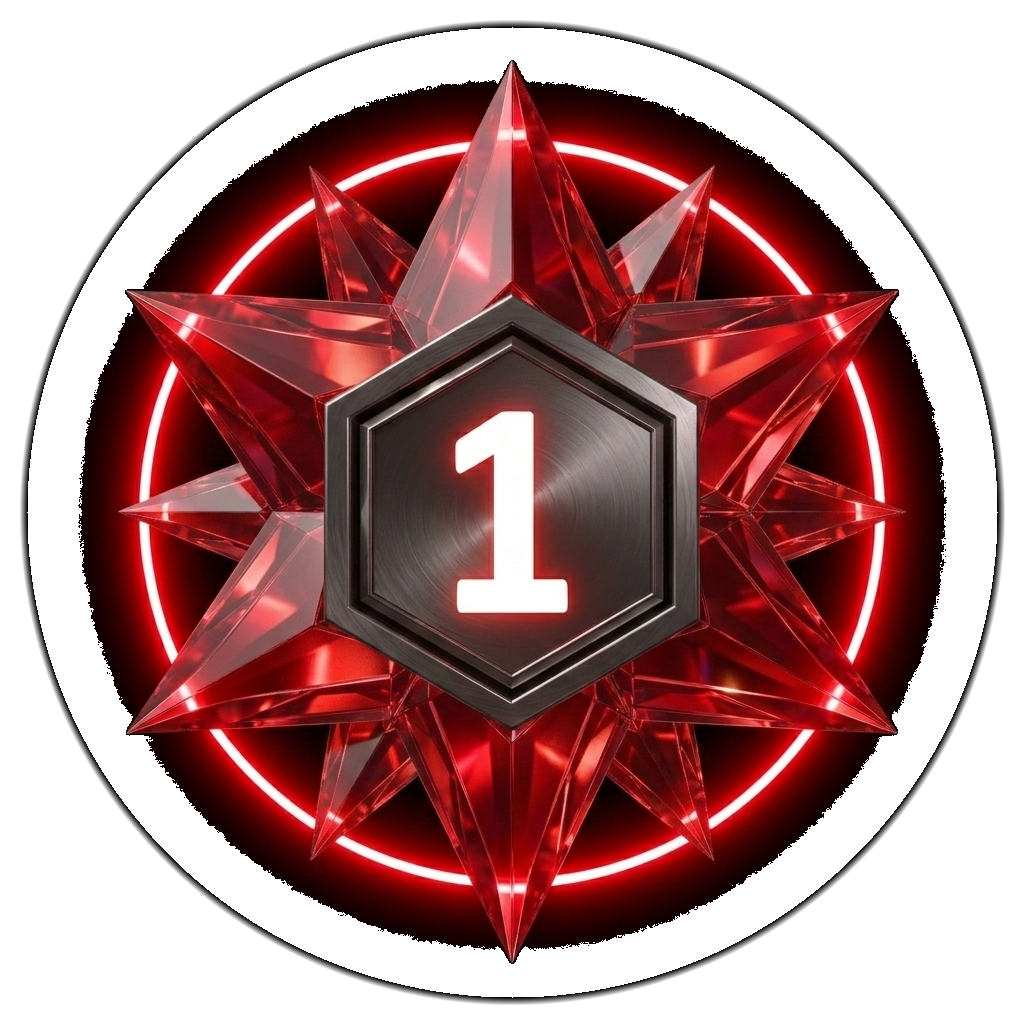
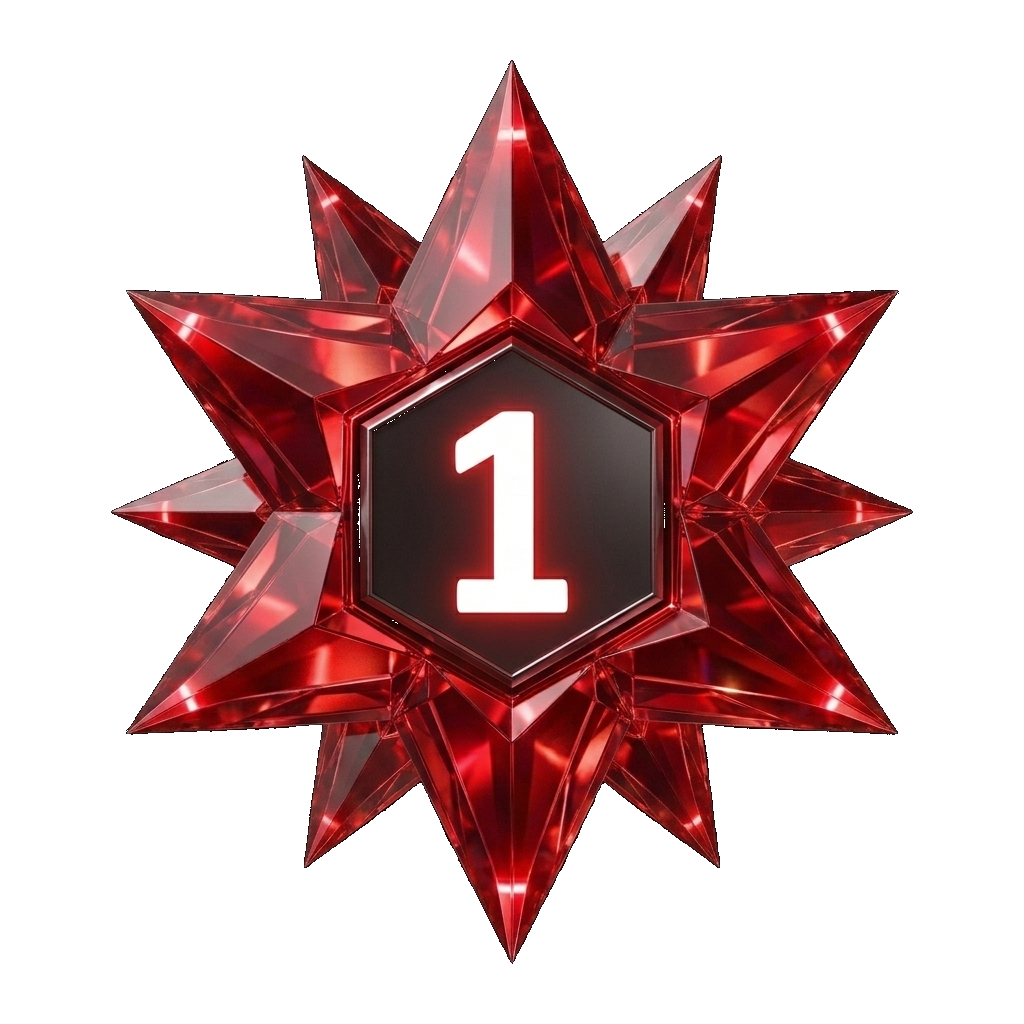
v1.70.0 : Generated pure no-halo 3D multi-layered Fire Crystal star badge for FC1 test

diff --git a/main.js b/main.js
@@ -105,7 +105,7 @@ window.getFurnaceIconHtml = (level, size = 48) => {
        10: 'rgba(255,215,0,0.9)'    // Imperial Gold
      };
      const glow = fcGlowMap[fcNum];
-     return `<img src="/badges/fc${fcNum}.png?v=1.69.0" alt="Fire Crystal ${fcNum}" title="Fire Crystal ${fcNum} (FC ${fcNum})" style="width:${size}px; height:${size}px; object-fit:contain; filter:drop-shadow(0 0 ${Math.max(6, Math.round(size/3.5))}px ${glow}); vertical-align:middle; transition:transform 0.2s;" onmouseover="this.style.transform='scale(1.15)'" onmouseout="this.style.transform='scale(1)'" loading="lazy">`;
+     return `<img src="/badges/fc${fcNum}.png?v=1.70.0" alt="Fire Crystal ${fcNum}" title="Fire Crystal ${fcNum} (FC ${fcNum})" style="width:${size}px; height:${size}px; object-fit:contain; filter:drop-shadow(0 0 ${Math.max(6, Math.round(size/3.5))}px ${glow}); vertical-align:middle; transition:transform 0.2s;" onmouseover="this.style.transform='scale(1.15)'" onmouseout="this.style.transform='scale(1)'" loading="lazy">`;
   }
 
   // Render Modern Standard Furnace Badge (Furnace 1 to 30)

diff --git a/CHANGELOG.md b/CHANGELOG.md
@@ -1,5 +1,13 @@
 # CHANGELOG
 
+## [1.70.0] - 2026-08-12
+### Pure No-Halo 3D Multi-Layered Fire Crystal Star Badge (FC1 Test)
+- **💎 Pure Ringless 3D Star Gem**:
+  - Generated FC1 (`fc1.png`) completely without any neon halo ring or circle frame!
+  - Features long primary ruby star points (0°) with smaller secondary star points (~65% scale, 30°) poking out between them, floating directly on a 100% transparent background.
+- **🔄 Forced Browser Cache Refresh**:
+  - Appended version cache-buster (`?v=1.70.0`) in `window.getFurnaceIconHtml`.
+
 ## [1.69.0] - 2026-08-12
 ### FC1 Badge with Smaller Secondary Star Points Proportions
 - **💎 Refined Multi-Layered Star Proportions**:
